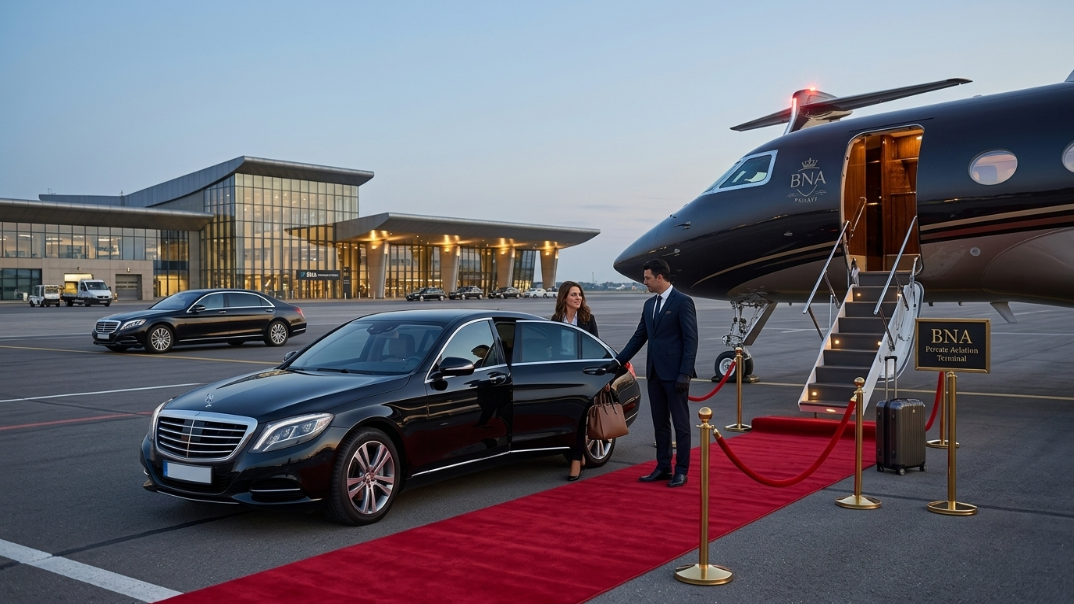
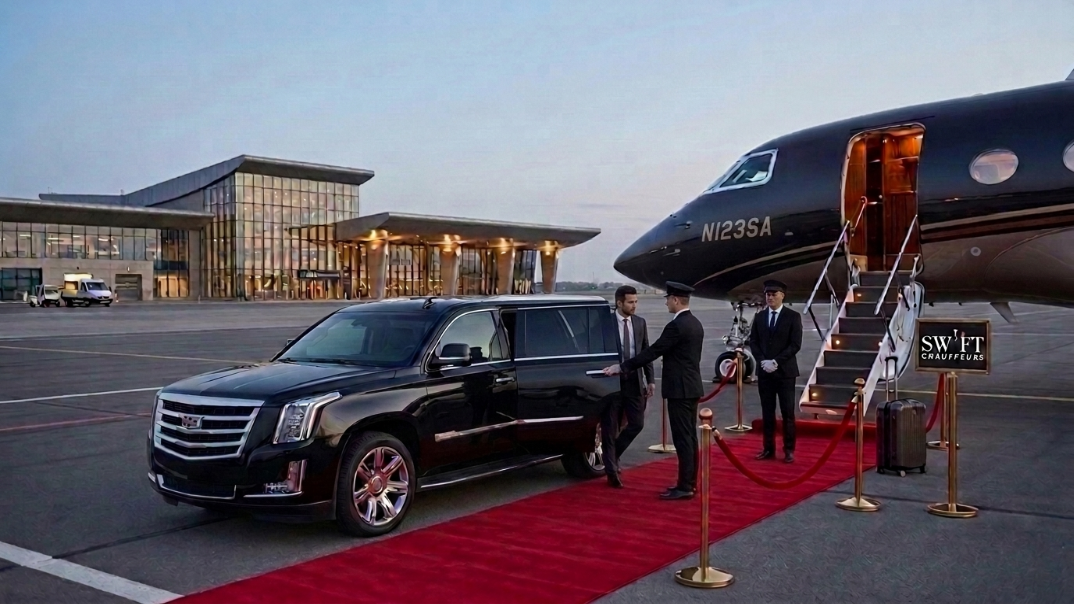
new push

diff --git a/src/pages/AirportPage.jsx b/src/pages/AirportPage.jsx
@@ -92,12 +92,12 @@ export default function AirportPage() {
       <section className="px-6 py-10 md:px-16 lg:px-24">
         <div className="mx-auto grid max-w-(--breakpoint-xl) grid-cols-1 items-center gap-12 lg:grid-cols-2">
           <div>
-            <span className="eyebrow">Premium BNA Car Service</span>
+            <span className="eyebrow">PRIVATE BNA AIRPORT TRANSPORTATION</span>
             <h2 className="font-serif text-3xl leading-tight font-medium text-text md:text-4xl">
-              Effortless Nashville Airport Chauffeur Service, 24/7
+              Private Nashville Airport Car Service, Available 24/7
             </h2>
             <p className="mt-5 text-[15px] leading-relaxed text-text-muted">
-              Private BNA airport transfers, anytime. Here's what every transfer includes:
+              Travel to or from Nashville International Airport with private pickup, professional chauffeur service, flight-aware coordination, and a vehicle selected for your passengers and luggage.
             </p>
             <ul className="mt-7 grid grid-cols-1 gap-3.5 sm:grid-cols-2">
               {airportFeatures.map((line) => (
@@ -135,7 +135,7 @@ export default function AirportPage() {
           <div className="mb-10 max-w-2xl">
             <span className="eyebrow">BNA Arrivals</span>
             <h2 className="font-serif text-3xl leading-tight font-medium text-text md:text-4xl">
-              Your Arrival, Handled End to End
+              BNA Airport Arrival Pickup, Handled End to End
             </h2>
           </div>
           <div className="grid grid-cols-1 gap-6 lg:grid-cols-3">
@@ -220,7 +220,7 @@ export default function AirportPage() {
         <div className="mx-auto max-w-(--breakpoint-xl)">
           <div className="mb-10 text-center">
             <span className="eyebrow">Where We Drive</span>
-            <h2 className="font-serif text-3xl font-medium text-text md:text-4xl">Popular BNA Airport Chauffeur Routes</h2>
+            <h2 className="font-serif text-3xl font-medium text-text md:text-4xl">Popular Nashville Airport Car Service Routes</h2>
           </div>
           <div className="grid grid-cols-1 gap-5 md:grid-cols-2 lg:grid-cols-3">
             {airportRoutes.map((route) => (
@@ -349,7 +349,7 @@ export default function AirportPage() {
               departures, hotel transfers, corporate travel, family trips, or group transportation. Share your flight,
               route, passenger count, and luggage details to receive the right vehicle and a complete quote.
             </p>
-            <p className="mt-5 text-[13px] leading-relaxed text-text-faint">
+            <p className="mt-5 text-[15px] leading-relaxed text-text-muted">
               Available for BNA pickups and drop-offs, Downtown Nashville, local neighborhoods, and long-distance
               Middle Tennessee transfers.
             </p>
@@ -366,9 +366,9 @@ export default function AirportPage() {
       <section className="border-t border-border px-6 py-10 md:px-16 lg:px-24">
         <div className="mx-auto max-w-(--breakpoint-xl)">
           <div className="mb-10 text-center">
-            <span className="eyebrow">Book the Best BNA Car Service</span>
+            <span className="eyebrow">BOOK YOUR BNA AIRPORT TRANSFER</span>
             <h2 className="font-serif text-3xl font-medium text-text md:text-4xl">
-              How to Book Your Airport Chauffeur
+              How to Book Your Nashville Airport Car Service
             </h2>
           </div>
           <div className="grid grid-cols-1 gap-6 sm:grid-cols-2 lg:grid-cols-4">
@@ -440,7 +440,7 @@ export default function AirportPage() {
           <div className="mb-10 text-center">
             <span className="eyebrow">Good to Know</span>
             <h2 className="font-serif text-3xl font-medium text-text md:text-4xl">
-              Frequently Asked Questions
+              Nashville Airport Car Service FAQs
             </h2>
           </div>
           <FaqAccordion items={airportFaqs} />

diff --git a/src/data/airportContent.js b/src/data/airportContent.js
@@ -61,7 +61,7 @@ export const airportIntro = {
 // Arrival / meet-and-greet / flight monitoring — rendered as a stacked detail block.
 export const airportArrivalBlocks = [
   {
-    title: "BNA Arrival Pickup without the Usual Stress",
+    title: "Private BNA Arrival Pickup",
     paragraphs: [
       "Nashville International Airport is located at 1 Terminal Drive, Nashville, TN 37214. Commercial ground transportation operates through the airport's Ground Transportation Center in Terminal Garage 2, Level 1. Pickup details can change because of airport operations or construction, so passengers should follow the instructions sent with their booking and stay available by phone after landing.",
       "With a reserved BNA car service, your chauffeur can track the flight and coordinate the meeting point. After you collect your luggage, confirm that you are ready. Your chauffeur will then guide you to the correct pickup area.",
@@ -265,11 +265,11 @@ export const airportFaqs = [
   },
   {
     q: "Is there a shuttle from Nashville Airport to Downtown?",
-    a: "BNA has several ground transportation choices, including shuttles, buses, taxis, ride apps, and private cars. A private Nashville airport shuttle service is different from a shared shuttle because the vehicle is reserved for your party and travels directly to your destination. It can be a useful choice when you have luggage, a fixed meeting time, children, a business guest, or a group that wants to stay together.",
+    a: "Nashville International Airport is approximately 8–10 miles from Downtown Nashville. With a private chauffeur service, the drive typically takes about 15–25 minutes in normal traffic, depending on your exact hotel or venue. Travel time may increase during weekday rush hours, concerts, sporting events, conventions, construction, and busy weekend evenings. When reserving your Nashville airport transportation, provide the exact hotel or destination rather than simply entering “Downtown” so the chauffeur team can plan the route and provide a more accurate pickup and arrival estimate.",
   },
   {
     q: "What is the best way to get from Nashville Airport to Downtown?",
-    a: "The best way to get from Nashville Airport to Downtown depends on your budget, group size, luggage, arrival time, and need for privacy. Public transit may suit a flexible solo traveler. A taxi or ride app may suit a simple trip. A booked chauffeur is often a better fit when you want a confirmed vehicle, direct hotel service, flight monitoring, luggage help, and a clear quote before arrival.",
+    a: "A professional chauffeur service is often the best way to travel from Nashville International Airport to Downtown Nashville when you want a confirmed vehicle, direct hotel transportation, flight monitoring, luggage assistance, privacy, and clear pricing before arrival. Other options, including taxis, ride apps, and public transportation, may suit travelers with flexible schedules or smaller budgets. The right choice ultimately depends on your group size, luggage, arrival time, budget, and preferred level of comfort.",
   },
   {
     q: "How far is Nashville Airport from Downtown?",
@@ -293,7 +293,7 @@ export const airportFaqs = [
   },
   {
     q: "How early should I book an airport chauffeur?",
-    a: "Booking several days in advance gives you more vehicle choices and time to confirm details. Reserve earlier for holidays, large conventions, major concerts, sports weekends, weddings, and group travel. Same-day service may be available, but it depends on vehicle and chauffeur availability. For an early departure or a late arrival, advance booking is especially helpful. Always review the pickup time, cancellation policy, waiting terms, and contact information before the travel date.",
+    a: "We can often arrange sedans, SUVs, and Sprinter vans just a few hours before your airport arrival or departure, depending on availability. However, booking at least two to three days in advance is recommended, especially when reserving a limousine or party bus. These vehicles are booked on a first-come, first-served basis, so early reservations provide better vehicle selection and help prevent last-minute availability issues.",
   },
   {
     q: "Does the airport chauffeur service cover hotels and residential addresses?",

diff --git a/src/pages/BirthdayPage.jsx b/src/pages/BirthdayPage.jsx
@@ -156,7 +156,7 @@ export default function BirthdayPage() {
           <div>
             <span className="eyebrow">Nashville's Top Choice</span>
             <h2 className="font-serif text-3xl leading-tight font-medium text-text md:text-4xl">
-              Why Choose Apex Motors for Birthday Party Buses
+              Why Choose Swift Chauffeurs for Birthday Party Buses
             </h2>
             <p className="mt-5 text-[15px] leading-relaxed text-text-muted">
               We provide more than just transportation; we deliver an experience custom to your celebration. Here's